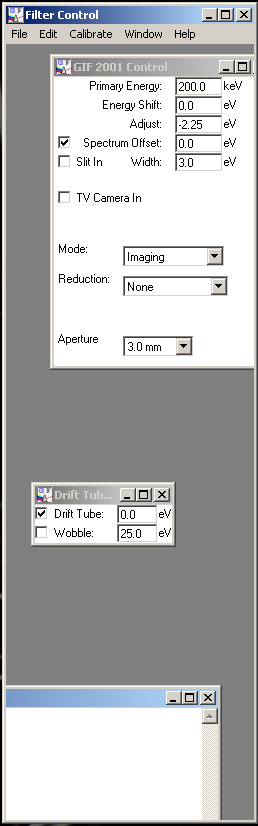
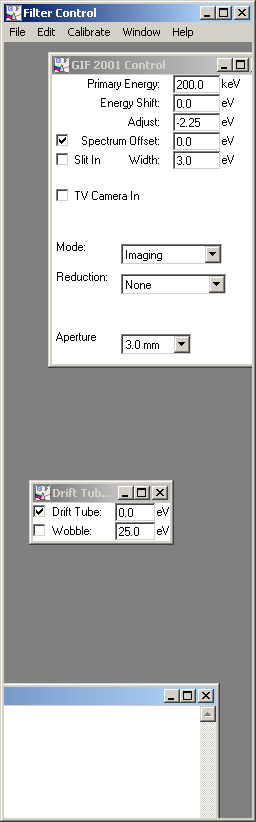
filtercontrol window now in and draggable

diff --git a/index.htm b/index.htm
@@ -158,7 +158,10 @@
     <div id='searchcontent'>
     </div>
     <div id='filtercontroldiv'>
-      <img src='./public/img/filtercontrol.png' />
+      <img src='./public/img/filtercontrol.png' usemap='#filtercontrolwindow'/>
+      <map name='filtercontrolwindow' id='filtercontrolwindow'>
+        <area shape='rect' id='filtercontrolclosebox' coords='234,6,250,19' />
+      </map>
     </div>
 
     <div id='filemenu'>
@@ -175,8 +178,8 @@
         <area shape='rect' id='imagefile' coords='106,77,242,96' />
       </map>  
     </div>
-    <!--<img src='./public/img/mask.svg' id='mask'/>-->
-    <!--<img src='./public/img/32.png' id='testimage' />-->
+    <img src='./public/img/mask.svg' id='mask'/>
+    <img src='./public/img/32.png' id='testimage' />
 
     <!--library imports-->
     <script src='./public/js/jquery-3.2.1.min.js'></script>

diff --git a/public/js/onclicks/startmenu.js b/public/js/onclicks/startmenu.js
@@ -25,4 +25,13 @@ let startMenu = function(){
   $('#micrographstart').on('click', function(event){
     $('#mainimage').attr('src', './public/img/mainscreen.png');
   });
+
+  $('#filtercontrol').on('click', function(event){
+    let element = $('#filtercontroldiv');
+    if(isVisible('filtercontroldiv')){
+      element.hide();
+    } else {
+      element.show();
+    }
+  })
 };

diff --git a/public/js/pagesetup.js b/public/js/pagesetup.js
@@ -3,7 +3,7 @@
 
 'use strict';
 
-let listOfDraggables = ['openfiledialogue', 'microscopeGraph', 'vacuumoverview'];
+let listOfDraggables = ['openfiledialogue', 'microscopeGraph', 'vacuumoverview', 'filtercontroldiv'];
 
 let beamslider; 
 

diff --git a/public/js/onclicks/mainscreen.js b/public/js/onclicks/mainscreen.js
@@ -53,4 +53,7 @@ let mainScreen = function(){
     $('#microscopeimage').show();
   });
 
+  $('#filtercontrolclosebox').on('click', function(event){
+    $('#filtercontroldiv').hide();
+  });
 };

diff --git a/public/css/mapped.css b/public/css/mapped.css
@@ -176,8 +176,8 @@ body{
 
 #filtercontroldiv{
   position: absolute;
-  top: 20vh;
-  left: 20vw;
+  top: 10vh;
+  left: 60vw;
 }
 
 #startmenu{
